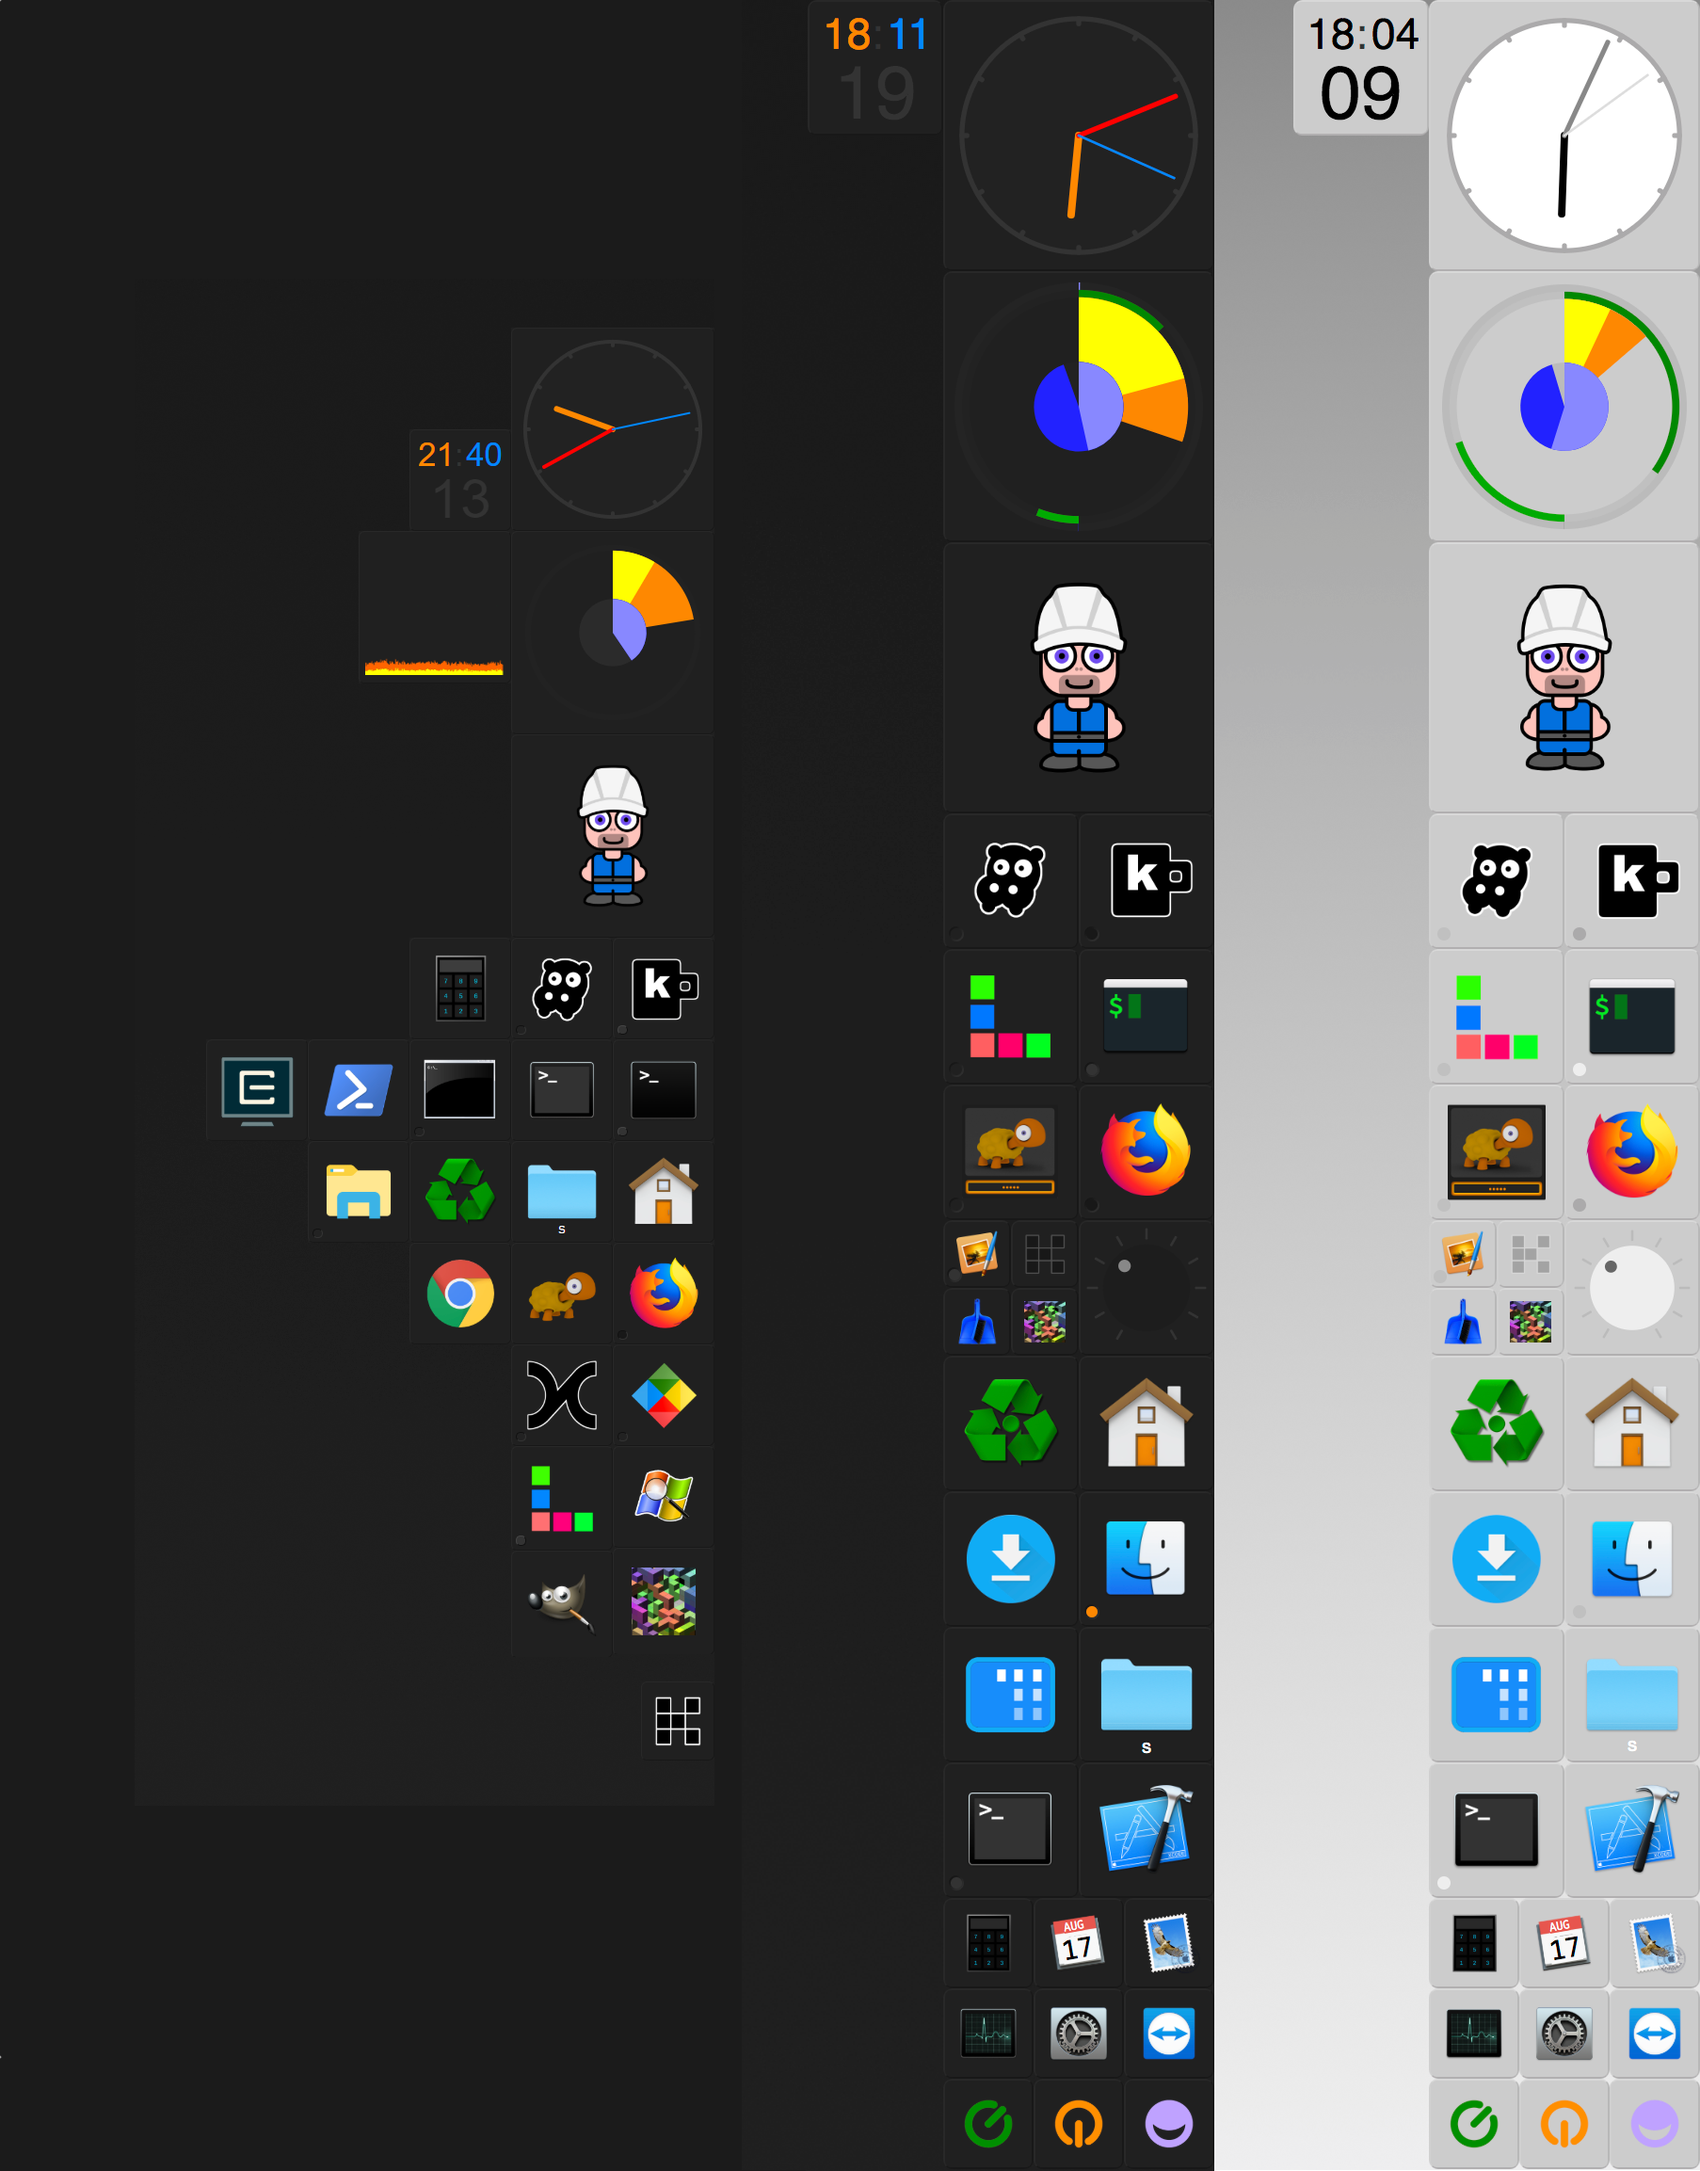
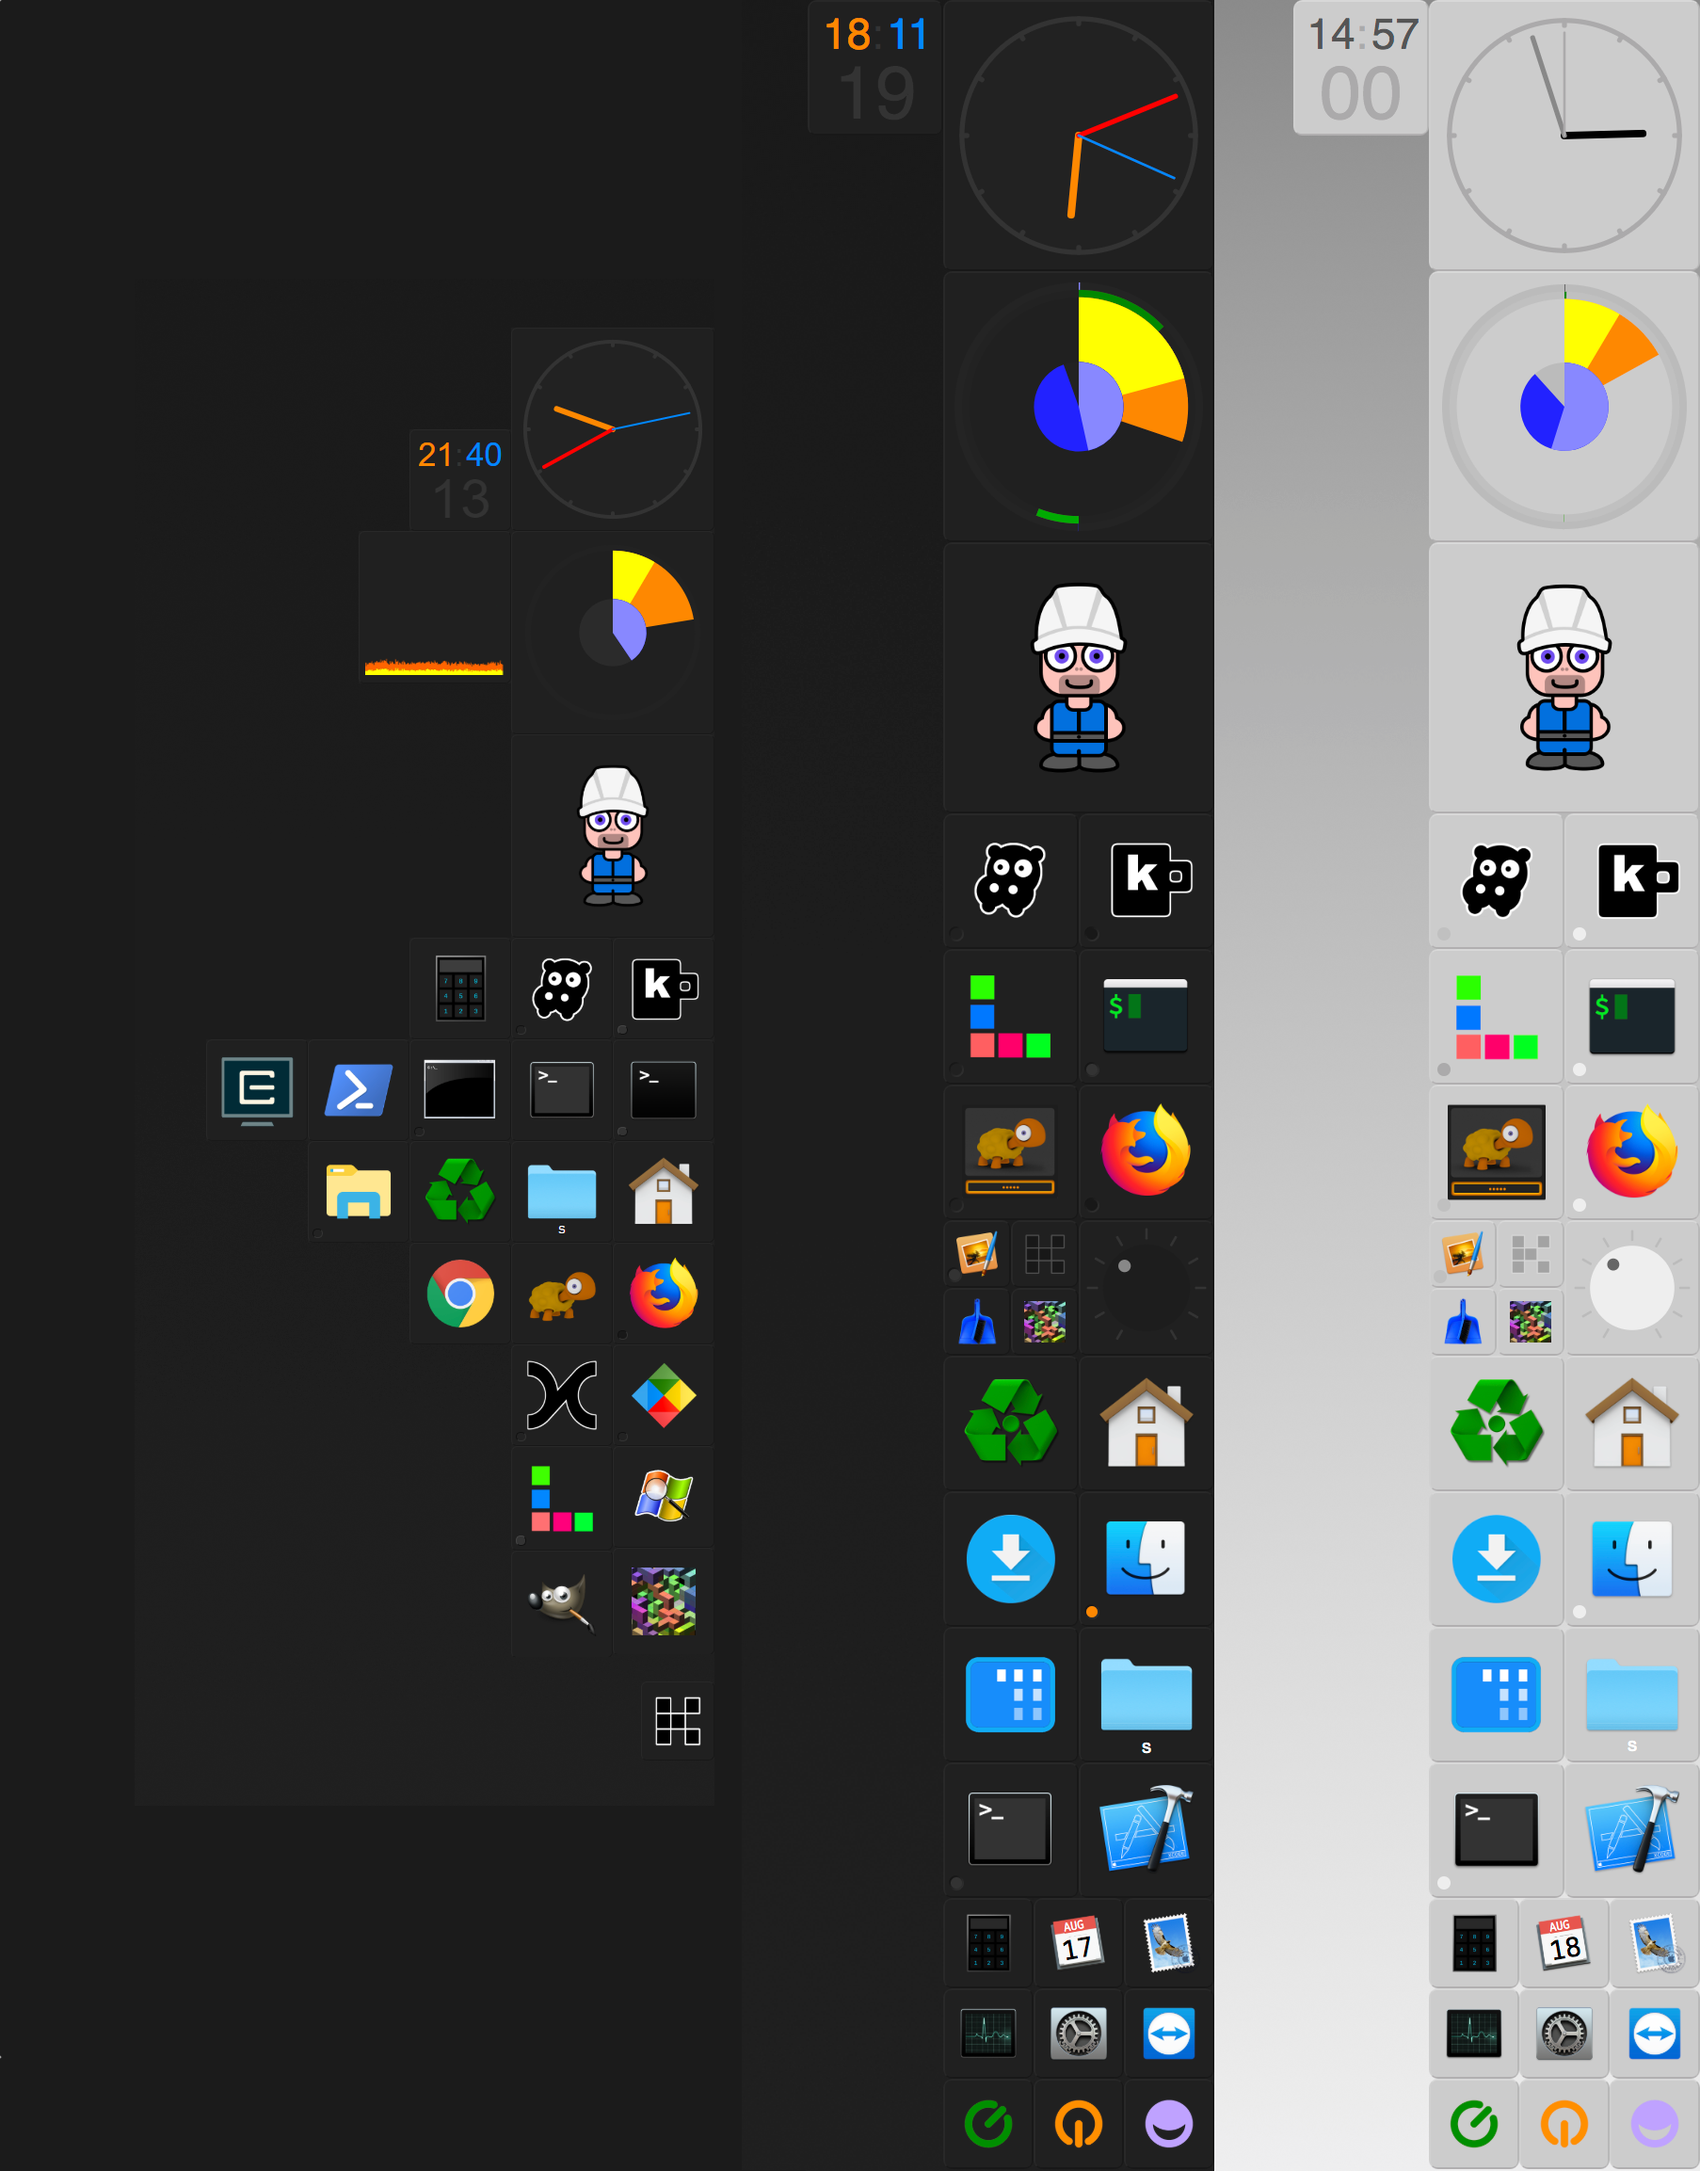
bright

Changed region(s): [[0.7752, 0.0, 0.9922, 0.2186], [0.8682, 0.2186, 0.8992, 0.2498]]

diff --git a/js/kachel.js b/js/kachel.js
@@ -28,6 +28,7 @@ Kachel = (function(superClass) {
         this.onInitKachel = bind(this.onInitKachel, this);
         this.onWinClose = bind(this.onWinClose, this);
         this.onWinMove = bind(this.onWinMove, this);
+        this.onWinShow = bind(this.onWinShow, this);
         this.onWinLoad = bind(this.onWinLoad, this);
         this.onWinBlur = bind(this.onWinBlur, this);
         this.onWinFocus = bind(this.onWinFocus, this);
@@ -52,6 +53,7 @@ Kachel = (function(superClass) {
             onMove: this.onDragMove,
             onStop: this.onDragStop
         });
+        this.win.on('show', this.onWinShow);
         this.win.on('move', this.onWinMove);
         this.win.on('blur', this.onWinBlur);
         this.win.on('focus', this.onWinFocus);
@@ -148,6 +150,10 @@ Kachel = (function(superClass) {
         return this.onLoad(event);
     };
 
+    Kachel.prototype.onWinShow = function(event) {
+        return this.onShow(event);
+    };
+
     Kachel.prototype.onWinMove = function(event) {
         return this.onMove(event);
     };
@@ -164,6 +170,8 @@ Kachel = (function(superClass) {
     };
 
     Kachel.prototype.onLoad = function() {};
+
+    Kachel.prototype.onShow = function() {};
 
     Kachel.prototype.onMove = function() {};
 
@@ -268,5 +276,5 @@ Kachel = (function(superClass) {
 
 module.exports = Kachel;
 
[2 lines of base64/hex data omitted]
 //# sourceURL=../coffee/kachel.coffee

diff --git a/js/saver.js b/js/saver.js
@@ -7,12 +7,12 @@
      000  000   000     000     000       000   000
 0000000   000   000      0      00000000  000   000
  */
-var Kachel, Saver, _, electron, elem, klog, kpos, os, post, ref, sh, slash, sw, wxw,
+var Kachel, Saver, _, electron, elem, klog, kpos, os, post, prefs, ref, sh, slash, sw, wxw,
     bind = function(fn, me){ return function(){ return fn.apply(me, arguments); }; },
     extend = function(child, parent) { for (var key in parent) { if (hasProp.call(parent, key)) child[key] = parent[key]; } function ctor() { this.constructor = child; } ctor.prototype = parent.prototype; child.prototype = new ctor(); child.__super__ = parent.prototype; return child; },
     hasProp = {}.hasOwnProperty;
 
-ref = require('kxk'), sw = ref.sw, sh = ref.sh, os = ref.os, slash = ref.slash, post = ref.post, kpos = ref.kpos, klog = ref.klog, elem = ref.elem, _ = ref._;
+ref = require('kxk'), sw = ref.sw, sh = ref.sh, os = ref.os, slash = ref.slash, post = ref.post, kpos = ref.kpos, prefs = ref.prefs, klog = ref.klog, elem = ref.elem, _ = ref._;
 
 Kachel = require('./kachel');
 
@@ -31,11 +31,13 @@ Saver = (function(superClass) {
         this.onSaverClose = bind(this.onSaverClose, this);
         this.check = bind(this.check, this);
         this.onData = bind(this.onData, this);
+        this.onShow = bind(this.onShow, this);
+        this.onLoad = bind(this.onLoad, this);
         arguments[0] = _.defaults({kachelId:this.kachelId}, arguments[0]); Saver.__super__.constructor.apply(this, arguments);
         this.last = Date.now();
         this.taskbar = false;
         this.saver = null;
-        this.minutes = 5;
+        this.minutes = prefs.get('saver▸timeout', 5);
         this.interval = parseInt(1000 * 60 * this.minutes);
     }
 
@@ -49,6 +51,10 @@ Saver = (function(superClass) {
         return this.requestData('keyboard');
     };
 
+    Saver.prototype.onShow = function() {
+        return this.startCheck();
+    };
+
     Saver.prototype.onData = function(data) {
         return this.last = Date.now();
     };
@@ -57,11 +63,15 @@ Saver = (function(superClass) {
         if (ms == null) {
             ms = this.interval;
         }
+        clearTimeout(this.checkTimer);
         return this.checkTimer = setTimeout(this.check, ms);
     };
 
     Saver.prototype.check = function() {
         var elapsed, now;
+        if (!this.win.isVisible()) {
+            return;
+        }
         now = Date.now();
         elapsed = now - this.last;
         if (elapsed > this.interval) {
@@ -151,5 +161,5 @@ Saver = (function(superClass) {
 
 module.exports = Saver;
 
[2 lines of base64/hex data omitted]
 //# sourceURL=../coffee/saver.coffee

diff --git a/js/css/bright.css b/js/css/bright.css
@@ -13,26 +13,26 @@ body:not(.kachelFocus) #main {
   animation-duration: 0.2s;
 }
 body.kachelHover {
-  background-color: #ddd;
+  background-color: #d0d0d0;
   border-top: 1px solid #eee;
   border-left: 1px solid #ddd;
   border-right: 1px solid #b0b0b0;
   border-bottom: 1px solid #aaa;
 }
 body.kachelHover #main {
-  background-color: #ddd;
+  background-color: #d0d0d0;
 }
 body.kachelFocus {
   animation-name: focusFrame;
   animation-duration: 0.4s;
-  background-color: #eee;
+  background-color: #ddd;
   border-top: 1px solid #fff;
   border-left: 1px solid #eee;
   border-right: 1px solid #aaa;
   border-bottom: 1px solid #999;
 }
 body.kachelFocus #main {
-  background-color: #eee;
+  background-color: #ddd;
   animation-name: focusBackground;
   animation-duration: 0.4s;
 }
@@ -101,7 +101,7 @@ body:active {
 }
 .face {
   stroke: #aaa;
-  fill: #fff;
+  fill: #ccc;
 }
 .minmrk {
   stroke: #aaa;
@@ -113,7 +113,19 @@ body:active {
   stroke: #888;
 }
 .second {
-  stroke: #ddd;
+  stroke: #aaa;
+}
+.alarm-hour {
+  color: #555;
+}
+.alarm-minute {
+  color: #555;
+}
+.alarm-minute:before {
+  color: #aaa;
+}
+.alarm-second {
+  color: #aaa;
 }
 .knob {
   fill: #eee;
@@ -136,7 +148,7 @@ body:active {
     border-bottom: 1px solid #999;
   }
   to {
-    background-color: #eee;
+    background-color: #ddd;
     border-top: 1px solid #d8d8d8;
     border-left: 1px solid #d0d0d0;
     border-right: 1px solid #b8b8b8;
@@ -152,7 +164,7 @@ body:active {
     border-bottom: 1px solid #999;
   }
   to {
-    background-color: #eee;
+    background-color: #ddd;
     border-top: 1px solid #d8d8d8;
     border-left: 1px solid #d0d0d0;
     border-right: 1px solid #b8b8b8;
@@ -168,7 +180,7 @@ body:active {
     border-bottom: 1px solid #999;
   }
   to {
-    background-color: #eee;
+    background-color: #ddd;
     border-top: 1px solid #d8d8d8;
     border-left: 1px solid #d0d0d0;
     border-right: 1px solid #b8b8b8;
@@ -184,7 +196,7 @@ body:active {
     border-bottom: 1px solid #999;
   }
   to {
-    background-color: #eee;
+    background-color: #ddd;
     border-top: 1px solid #d8d8d8;
     border-left: 1px solid #d0d0d0;
     border-right: 1px solid #b8b8b8;
@@ -196,7 +208,7 @@ body:active {
     background-color: #ccc;
   }
   to {
-    background-color: #eee;
+    background-color: #ddd;
   }
 }
 @-webkit-keyframes focusBackground {
@@ -204,7 +216,7 @@ body:active {
     background-color: #ccc;
   }
   to {
-    background-color: #eee;
+    background-color: #ddd;
   }
 }
 @-o-keyframes focusBackground {
@@ -212,7 +224,7 @@ body:active {
     background-color: #ccc;
   }
   to {
-    background-color: #eee;
+    background-color: #ddd;
   }
 }
 @keyframes focusBackground {
@@ -220,12 +232,12 @@ body:active {
     background-color: #ccc;
   }
   to {
-    background-color: #eee;
+    background-color: #ddd;
   }
 }
 @-moz-keyframes noFocusFrame {
   from {
-    background-color: #eee;
+    background-color: #ddd;
     border-top: 1px solid #d8d8d8;
     border-left: 1px solid #d0d0d0;
     border-right: 1px solid #b8b8b8;
@@ -241,7 +253,7 @@ body:active {
 }
 @-webkit-keyframes noFocusFrame {
   from {
-    background-color: #eee;
+    background-color: #ddd;
     border-top: 1px solid #d8d8d8;
     border-left: 1px solid #d0d0d0;
     border-right: 1px solid #b8b8b8;
@@ -257,7 +269,7 @@ body:active {
 }
 @-o-keyframes noFocusFrame {
   from {
-    background-color: #eee;
+    background-color: #ddd;
     border-top: 1px solid #d8d8d8;
     border-left: 1px solid #d0d0d0;
     border-right: 1px solid #b8b8b8;
@@ -273,7 +285,7 @@ body:active {
 }
 @keyframes noFocusFrame {
   from {
-    background-color: #eee;
+    background-color: #ddd;
     border-top: 1px solid #d8d8d8;
     border-left: 1px solid #d0d0d0;
     border-right: 1px solid #b8b8b8;
@@ -289,7 +301,7 @@ body:active {
 }
 @-moz-keyframes noFocusBackground {
   from {
-    background-color: #eee;
+    background-color: #ddd;
   }
   to {
     background-color: #ccc;
@@ -297,7 +309,7 @@ body:active {
 }
 @-webkit-keyframes noFocusBackground {
   from {
-    background-color: #eee;
+    background-color: #ddd;
   }
   to {
     background-color: #ccc;
@@ -305,7 +317,7 @@ body:active {
 }
 @-o-keyframes noFocusBackground {
   from {
-    background-color: #eee;
+    background-color: #ddd;
   }
   to {
     background-color: #ccc;
@@ -313,7 +325,7 @@ body:active {
 }
 @keyframes noFocusBackground {
   from {
-    background-color: #eee;
+    background-color: #ddd;
   }
   to {
     background-color: #ccc;

diff --git a/js/css/dark.css b/js/css/dark.css
@@ -121,6 +121,9 @@ body:active {
 .alarm-minute {
   color: #08f;
 }
+.alarm-minute:before {
+  color: #333;
+}
 .alarm-second {
   color: #333;
 }

diff --git a/js/css/style.css b/js/css/style.css
@@ -52,7 +52,6 @@ svg {
 }
 .alarm-minute:before {
   content: ':';
-  color: #333;
   padding-right: 7%;
 }
 .alarm-second {
